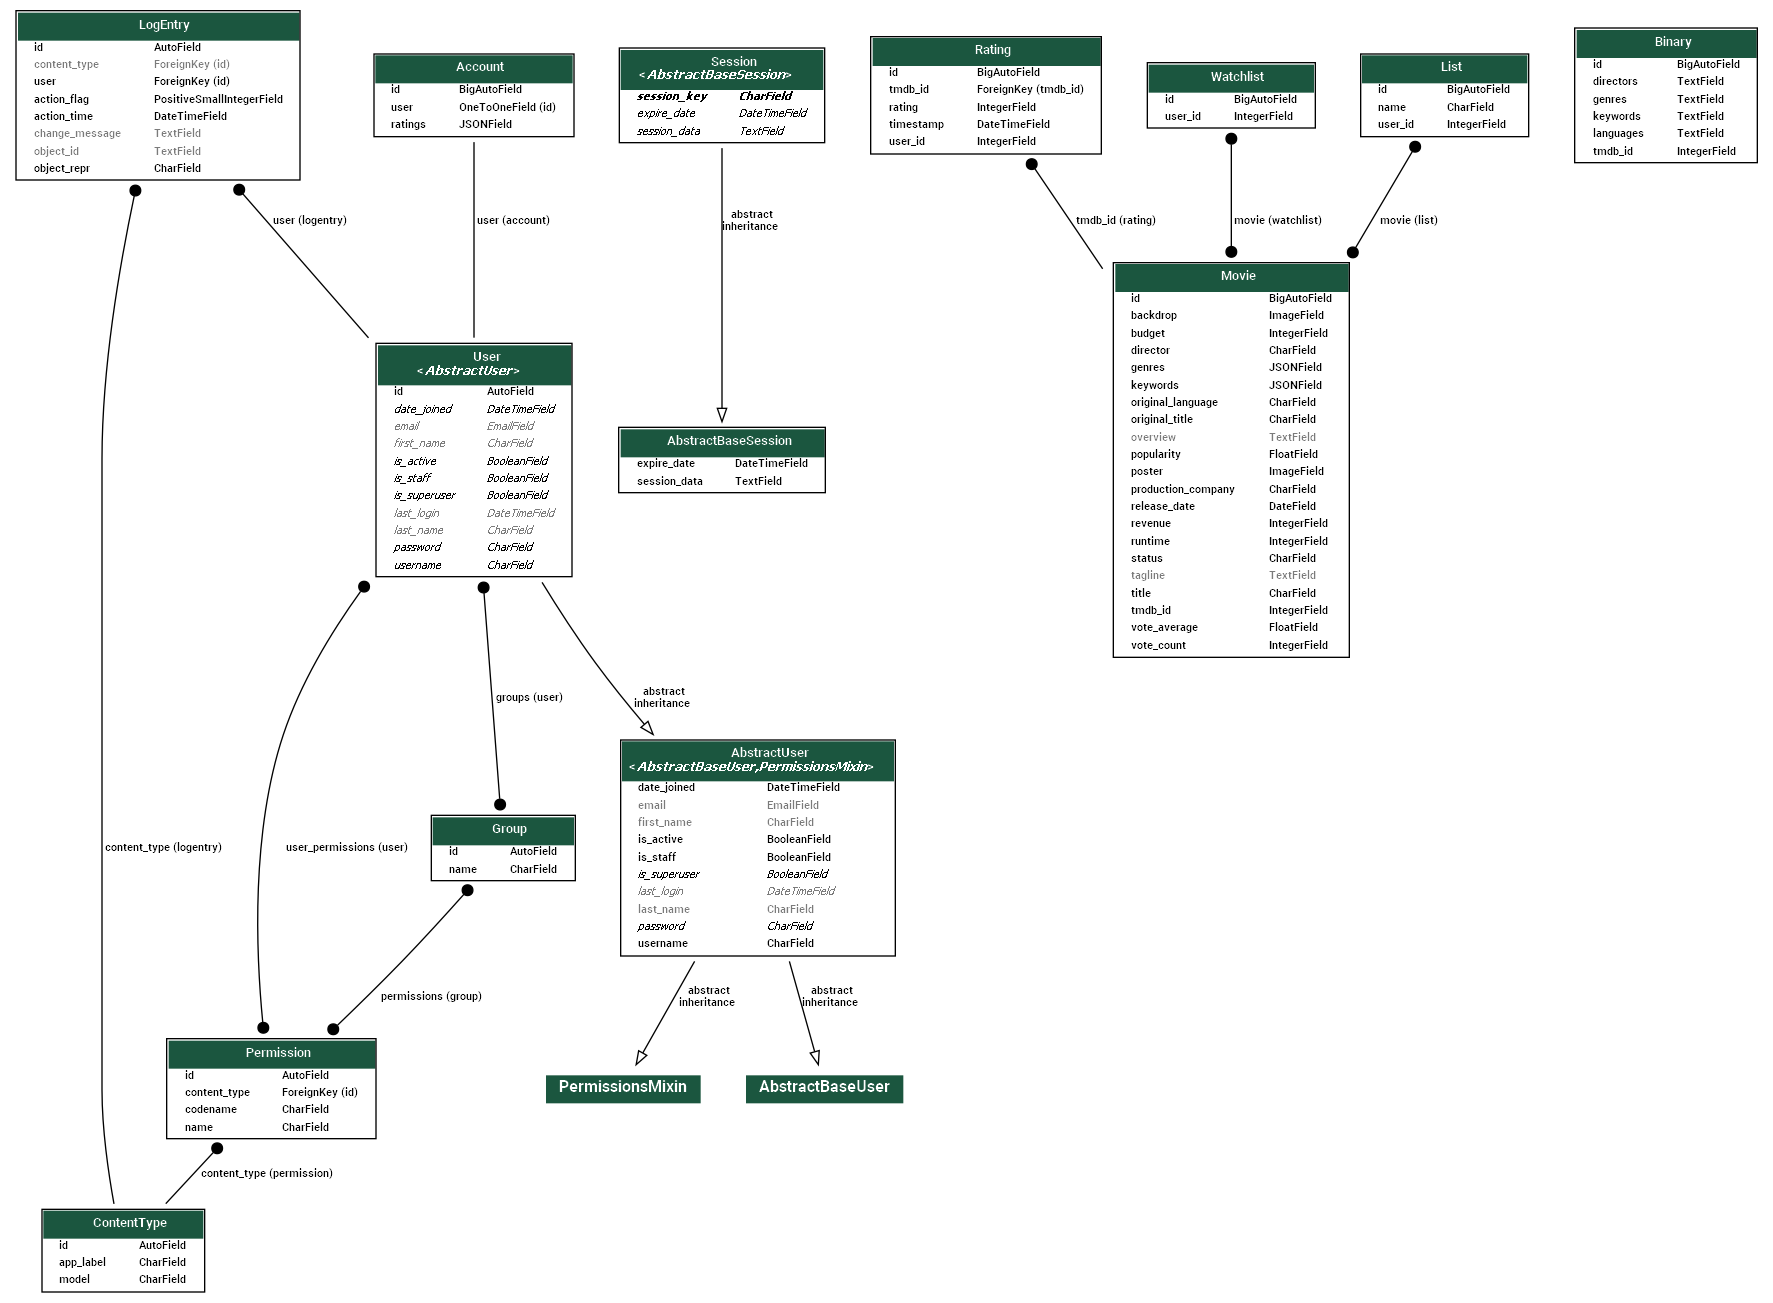
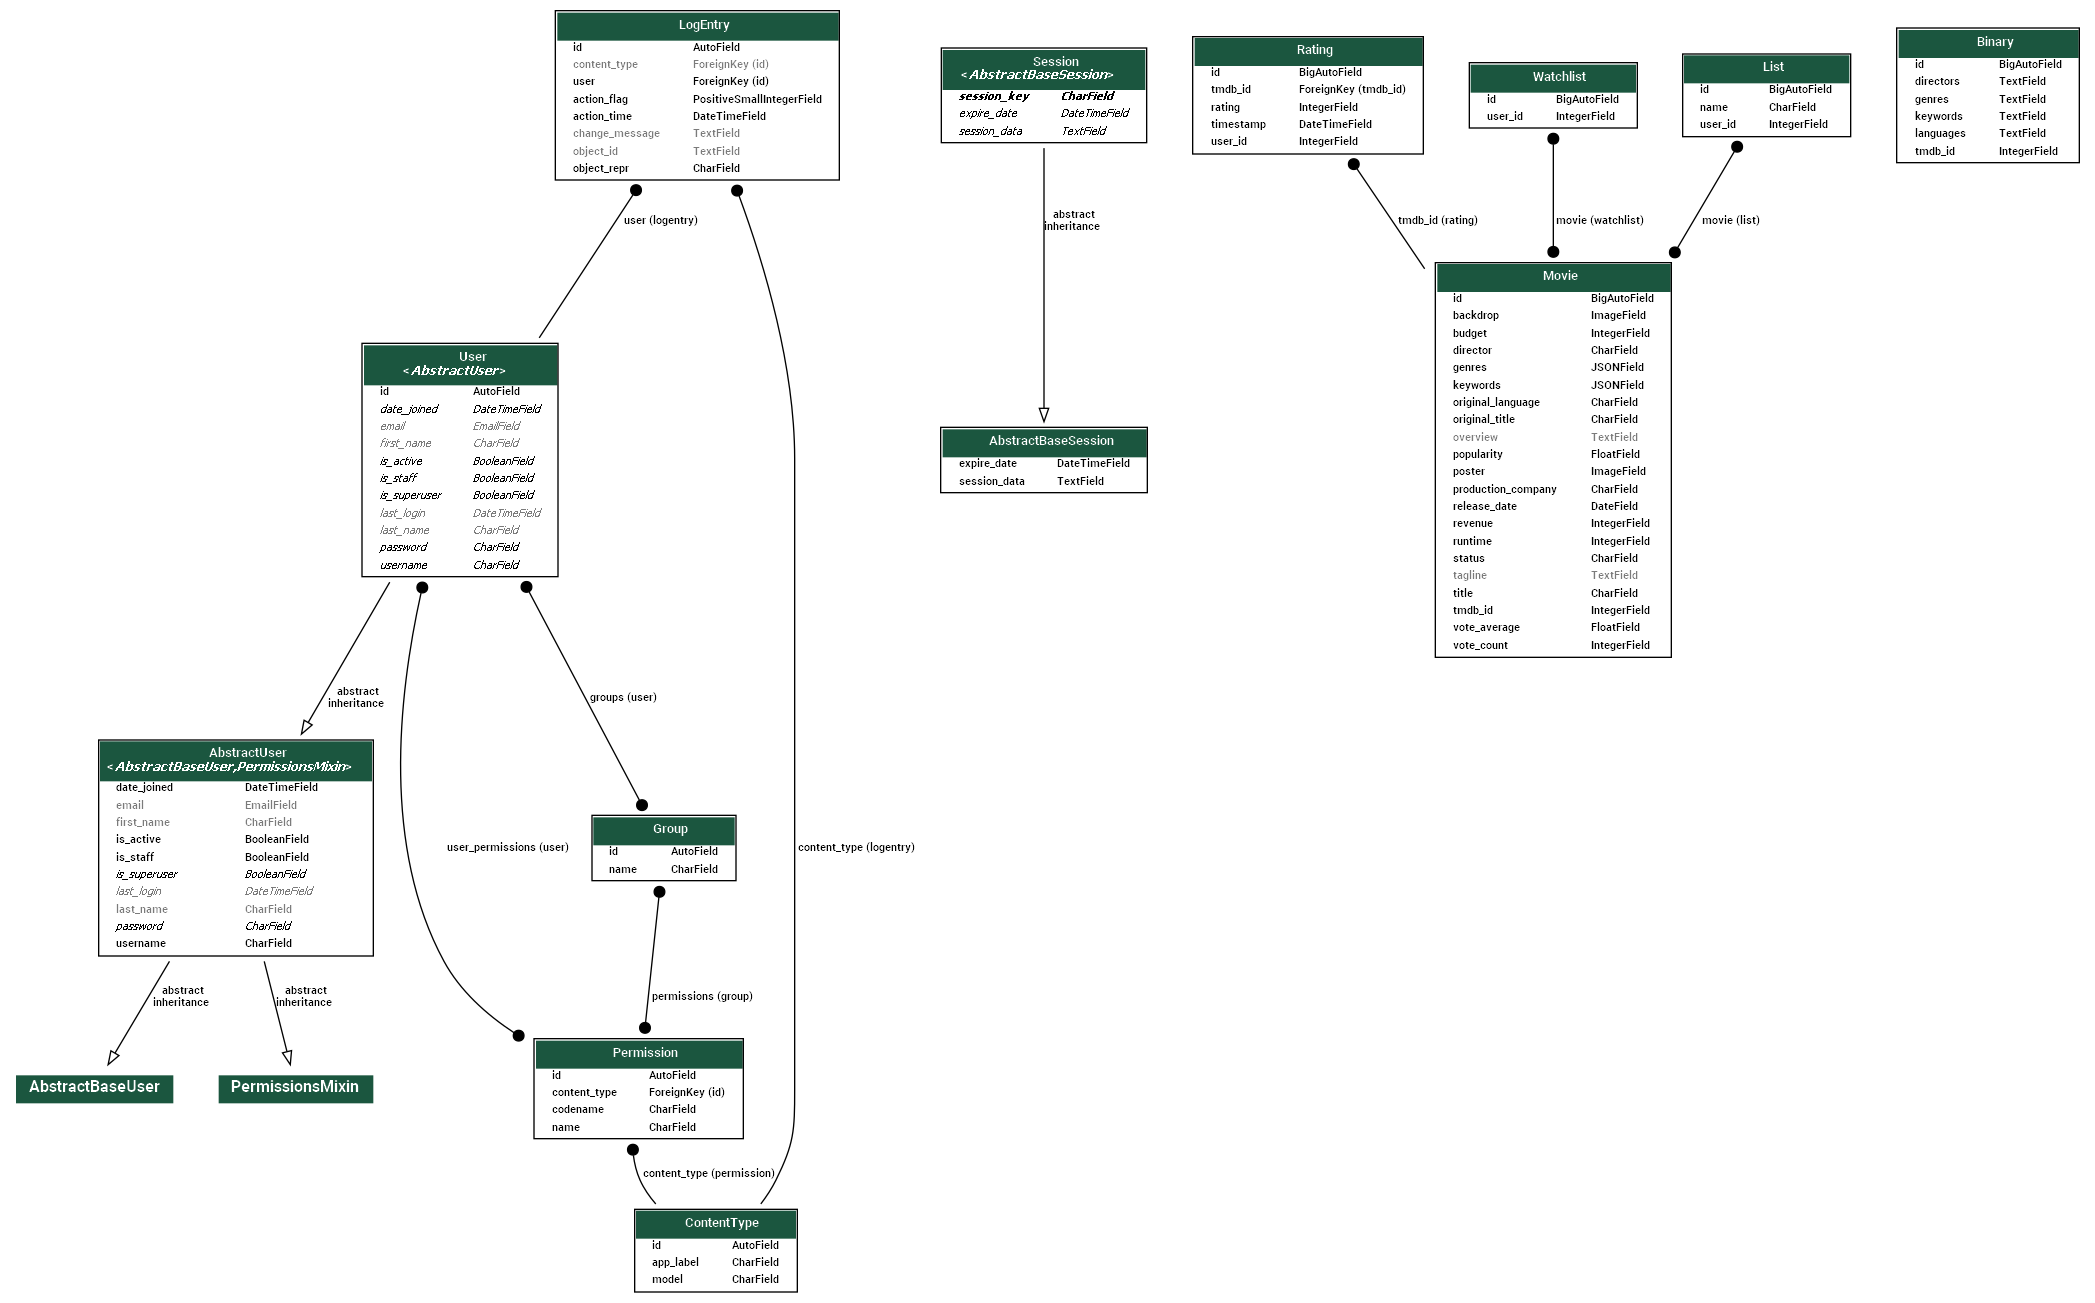
Delete unused "account" app

diff --git a/inz/settings.py b/inz/settings.py
@@ -40,7 +40,6 @@ INSTALLED_APPS = [
     'django.contrib.staticfiles',
     "crispy_forms",
     'movie',
-    'account.apps.AccountConfig',
     'register.apps.RegisterConfig',
     'rating.apps.RatingConfig',
     "django_pivot",
